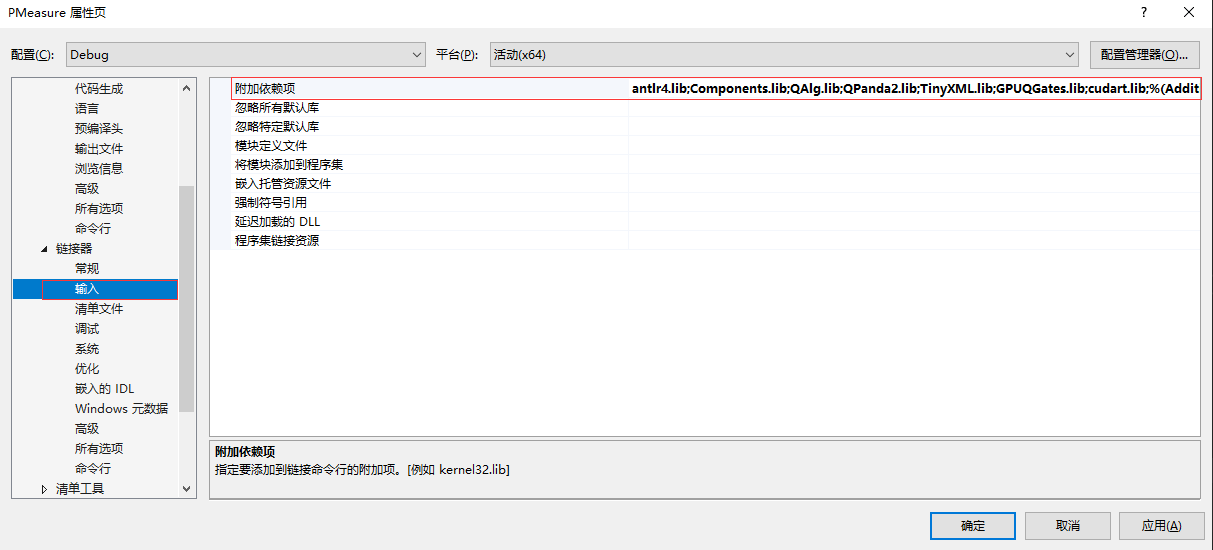
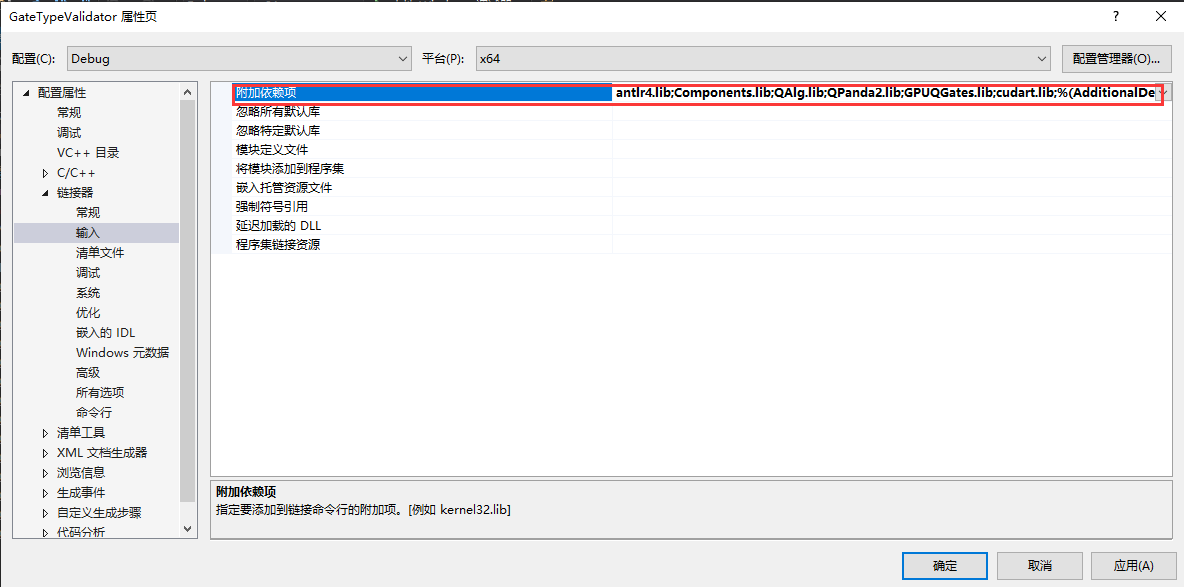
<fix> 修改示例，可以直接编译

Changed region(s): [[0.0, 0.0, 1.0, 0.9891]]

diff --git a/README.md b/README.md
@@ -49,7 +49,7 @@ GPUQGates.lib;cudart.lib
 ## MinGW
 
 ```
-g++ test.cpp -std=c++14 -fopenmp -I{QPanda安装路径}/include/qpanda2/ -I{QPanda安装路径}/include/qpanda2/ThirdParty/ -L{QPanda安装路径}/lib/ -lQPanda2 -lTinyXML -lantlr4 -o test
+g++ test.cpp -std=c++14 -fopenmp -I{QPanda安装路径}/include/qpanda2/ -I{QPanda安装路径}/include/qpanda2/ThirdParty/ -L{QPanda安装路径}/lib/ -lQPanda2 -lantlr4 -o test
 
 ```
 
@@ -58,25 +58,25 @@ g++ test.cpp -std=c++14 -fopenmp -I{QPanda安装路径}/include/qpanda2/ -I{QPan
 不含CUDA的编译指令
 
 ```
-g++ test.cpp -std=c++14 -fopenmp -I{QPanda安装路径}/include/qpanda2/ -I{QPanda安装路径}/include/qpanda2/ThirdParty/ -L{QPanda安装路径}/lib/ -lQPanda2 -lComponents -lTinyXML -lantlr4 -o test
+g++ test.cpp -std=c++14 -fopenmp -I{QPanda安装路径}/include/qpanda2/ -I{QPanda安装路径}/include/qpanda2/ThirdParty/ -L{QPanda安装路径}/lib/ -lQPanda2 -lComponents -lantlr4 -o test
 ```
 
 含有CUDA的编译指令
 
 ```
-g++ test.cpp -std=c++14 -fopenmp -I{QPanda安装路径}/include/qpanda2/ -I{QPanda安装路径}/include/qpanda2/ThirdParty/ -L{QPanda安装路径}/lib/ -lQPanda2 -lComponents -lTinyXML -lantlr4 -lGPUQGates -L{CUDA安装路径}/lib/  -lcudart -o test
+g++ test.cpp -std=c++14 -fopenmp -I{QPanda安装路径}/include/qpanda2/ -I{QPanda安装路径}/include/qpanda2/ThirdParty/ -L{QPanda安装路径}/lib/ -lQPanda2 -lComponents -lantlr4 -lGPUQGates -L{CUDA安装路径}/lib/  -lcudart -o test
 ```
 
 ## MacOS
 
 ```
-clang++ test.cpp -std=c++14 -fopenmp -I{QPanda安装路径}/include/qpanda2/ -I{QPanda安装路径}/include/qpanda2/ThirdParty/ -L{QPanda安装路径}/lib/ -lQPanda2 -lComponents -lTinyXML -lantlr4 -o test
+clang++ test.cpp -std=c++14 -fopenmp -I{QPanda安装路径}/include/qpanda2/ -I{QPanda安装路径}/include/qpanda2/ThirdParty/ -L{QPanda安装路径}/lib/ -lQPanda2 -lComponents -lantlr4 -o test
 ```
 
 含有CUDA的编译指令
 
 ```
-clang++ test.cpp -std=c++14 -fopenmp -I{QPanda安装路径}/include/qpanda2/ -I{QPanda安装路径}/include/qpanda2/ThirdParty/ -L{QPanda安装路径}/lib/ -lQPanda2 -lComponents -lTinyXML -lantlr4 -lGPUQGates -L{CUDA安装路径}/lib/  -lcudart -o test
+clang++ test.cpp -std=c++14 -fopenmp -I{QPanda安装路径}/include/qpanda2/ -I{QPanda安装路径}/include/qpanda2/ThirdParty/ -L{QPanda安装路径}/lib/ -lQPanda2 -lComponents -lantlr4 -lGPUQGates -L{CUDA安装路径}/lib/  -lcudart -o test
 ```
 
 # 使用CMake的方式调用QPanda2库
